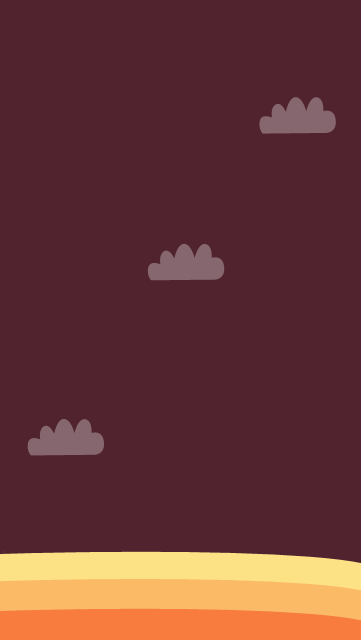
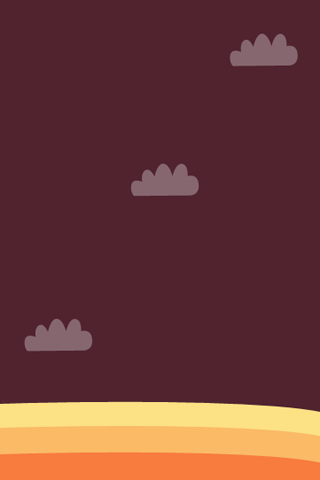
resize. harus stretch siah

diff --git a/js/main.js b/js/main.js
@@ -2,7 +2,7 @@ enchant();
  
 //initial
 window.onload = function() {
-    var game = new Game(361, 640);
+    var game = new Game(320, 480);
     game.preload('img/bg.png',
                 'img/bgover.png',
                  'img/player.png',
@@ -26,11 +26,11 @@ var SceneGame = Class.create(Scene, {
  
         Scene.apply(this);
         game = Game.instance;    
-        bg = new Sprite(361,640);
+        bg = new Sprite(320,480);
 
         // label
         label = new Label('SCORE: 0');
-        label.x = 25;
+        label.x = 12;
         label.y = 36;        
         label.color = 'white';
         label.font = '25px monospace';
@@ -44,7 +44,7 @@ var SceneGame = Class.create(Scene, {
         //player
         player = new Player();
         player.x = game.width/2 - player.width/2;
-        player.y = 468;
+        player.y = 320;
         this.player = player;
 
         //bomb group
@@ -74,7 +74,7 @@ var SceneGame = Class.create(Scene, {
 
     handleTouchControl: function (evt) {
         var laneWidth, lane;
-        laneWidth = 361/3;
+        laneWidth = 320/3;
         lane = Math.floor(evt.x/laneWidth);
         lane = Math.max(Math.min(2,lane),0);
         this.player.switchToLaneNumber(lane);
@@ -143,7 +143,7 @@ var Player = Class.create(Sprite, {
 
     // moving lane
     switchToLaneNumber: function(lane){     
-        var targetX = 180 - this.width/2 + (lane-1)*90;
+        var targetX = 160 - this.width/2 + (lane-1)*90;
         this.x = targetX;
     }
 });
@@ -191,29 +191,29 @@ var SceneGameOver = Class.create(Scene, {
     initialize: function(score) {
         var bgGameOver, gameOverLabel, scoreLabel, tapLabel;
         Scene.apply(this);
-        bgGameOver = new Sprite(361,640);
+        bgGameOver = new Sprite(320,480);
         bgGameOver.image = Game.instance.assets['img/bgover.png'];
 
         // Game Over label
         gameOverLabel = new Label("GAME OVER");
-        gameOverLabel.x = 28;
-        gameOverLabel.y = 180; 
+        gameOverLabel.x = 18;
+        gameOverLabel.y = 120; 
         gameOverLabel.color = 'white';
         gameOverLabel.font = '48px monospace';
         gameOverLabel.textAlign = 'center';
 
         // Score label
         scoreLabel = new Label('<br>SCORE: ' + score);
-        scoreLabel.x = 24;
-        scoreLabel.y = 198;       
+        scoreLabel.x = 14;
+        scoreLabel.y = 138;       
         scoreLabel.color = 'white';
         scoreLabel.font = '28px monospace';
         scoreLabel.textAlign = 'center';
 
         //tap label
         tapLabel = new Label('Tap to Restart');
-        tapLabel.x = 24;
-        tapLabel.y = 358;       
+        tapLabel.x = 14;
+        tapLabel.y = 228;       
         tapLabel.color = 'white';
         tapLabel.font = '22px monospace';
         tapLabel.textAlign = 'center';
